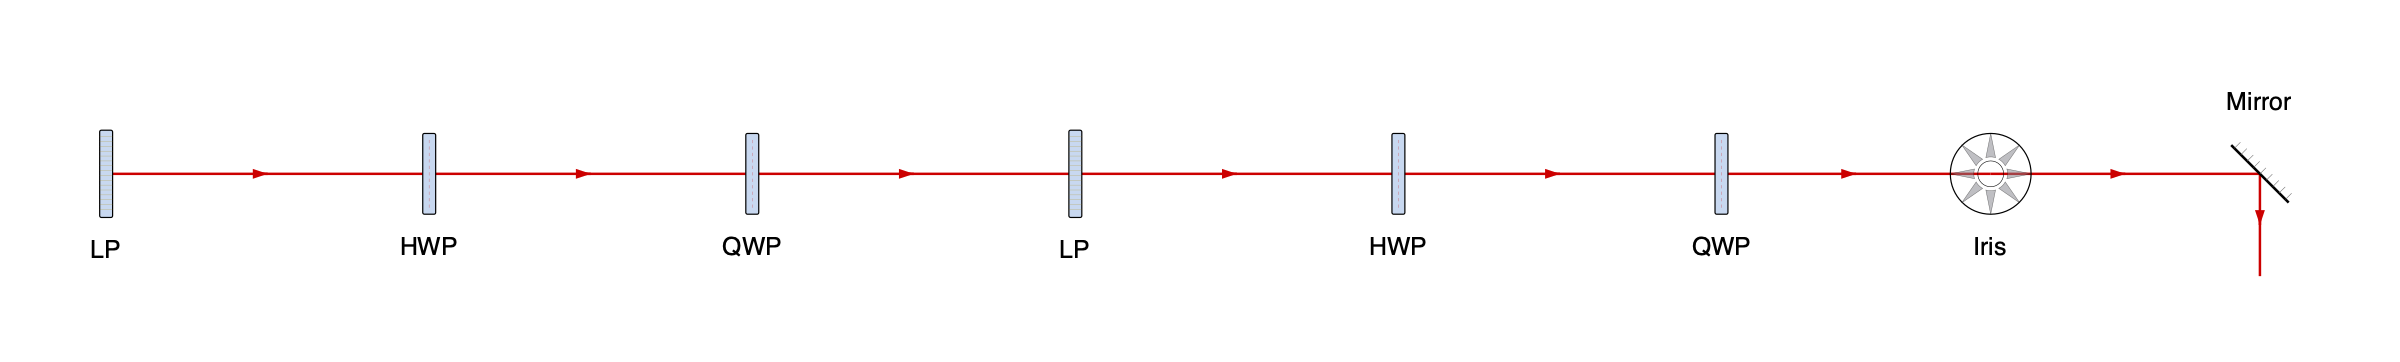
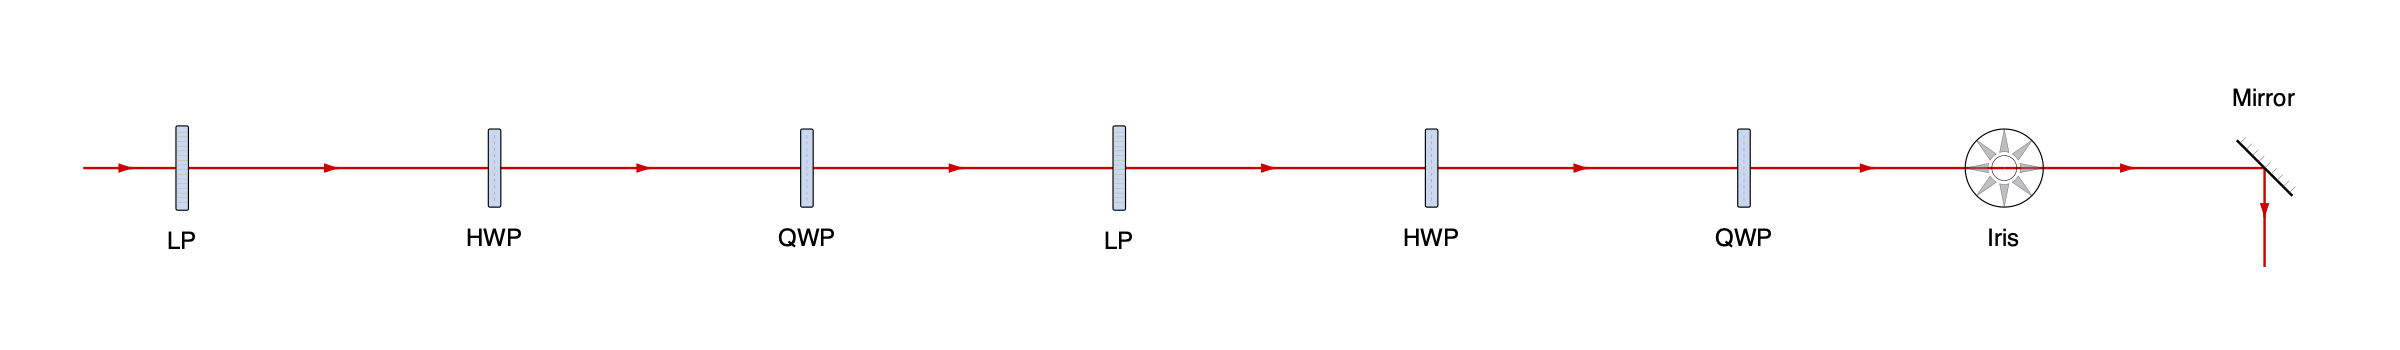
Draw implicit incoming beam stubs at free-space roots

diff --git a/tests/test_layout.py b/tests/test_layout.py
@@ -5,10 +5,108 @@ from uuid import uuid4
 import pytest
 
 from beampath import (
-    Artwork, ComponentDefinition, Geometry, HWP, LP, LayoutError, Port, QWP,
-    Setup, Style, beam, beamsplitter, component, iris, mirror, register_component,
+    Artwork, ComponentDefinition, ComponentSpec, Geometry, HWP, LP, LayoutError,
+    Port, QWP, Setup, Style, beam, beamsplitter, component, fiber_launch, iris,
+    mirror, register_component,
 )
 from beampath.examples import cage_system, mzi
+from beampath.layout import segment_intersects
+
+
+@pytest.mark.parametrize("direction", [0, 90, 180, 270, 31.7])
+def test_input_stub_follows_heading_and_preserves_graph(direction):
+    path = beam(direction, origin=(120, -60)) >> mirror(turn="left") >> iris()
+    before = path.setup.optics, path.setup.connections
+    result = path.layout()
+    lead, = [s for s in result.segments if s.source is None]
+    first = result.placements["optic-001"]
+    assert first.position == (120, -60)
+    assert lead.output is None and lead.target == first.id and lead.input == "in"
+    assert lead.end == pytest.approx(first.port_position("in"))
+    assert lead.length == pytest.approx(result.style.open_length)
+    assert tuple(lead.end[i] - lead.start[i] for i in (0, 1)) == pytest.approx((
+        95 * math.cos(math.radians(direction)), 95 * math.sin(math.radians(direction))))
+    assert (path.setup.optics, path.setup.connections) == before
+    assert len(result.placements) == 2 and len(path.setup.connections) == 1
+    assert all(not segment_intersects(lead.start, lead.end, label.bounds)
+               for label in result.labels)
+    x0, y0, x1, y1 = result.bounds
+    for x, y in (lead.start, lead.end):
+        assert x0 + result.style.margin <= x <= x1 - result.style.margin
+        assert y0 + result.style.margin <= y <= y1 - result.style.margin
+
+
+def test_shorthand_chain_draws_the_same_input_stub_as_explicit_beam():
+    shorthand = (iris() >> HWP()).layout()
+    explicit = (beam() >> iris() >> HWP()).layout()
+    assert shorthand == explicit
+    assert len([s for s in shorthand.segments if s.source is None]) == 1
+
+
+def test_input_stub_uses_displaced_port_and_extends_for_artwork():
+    spec = ComponentSpec(ComponentDefinition(
+        "wide", "", Artwork((0, 0), (-150, -20, 40, 20),
+                            svg='<svg xmlns="http://www.w3.org/2000/svg"/>'),
+        lambda p: Geometry((Port("in", "input", position=(-20, 5)),
+                            Port("out", "output", position=(10, 5))))))
+    path = beam(origin=(100, -70)).append(spec, at=(500, 60))
+    result = path.layout(style=Style(open_length=30, clearance=20))
+    lead, = [s for s in result.segments if s.source is None]
+    assert result.placements[path.end.id].position == (500, 60)
+    assert lead.end == pytest.approx((480, 65))
+    assert lead.start == pytest.approx((330, 65))
+    assert lead.length == pytest.approx(150)
+
+
+@pytest.mark.parametrize("direction", [0, 90, 180, 270, 31.7])
+@pytest.mark.parametrize("role", ["launch", "couple"])
+def test_fiber_launch_has_no_input_stub_but_coupler_does(direction, role):
+    path = beam(direction) >> fiber_launch(role=role)
+    result = path.layout()
+    leads = [s for s in result.segments if s.source is None]
+    if role == "launch":
+        assert leads == []
+        outgoing, = result.segments
+        assert outgoing.source == path.end.id and outgoing.target is None
+    else:
+        lead, = result.segments
+        assert leads == [lead]
+        assert lead.target == path.end.id and lead.input == "in"
+        assert tuple((lead.end[i] - lead.start[i]) / lead.length
+                     for i in (0, 1)) == pytest.approx((
+                         math.cos(math.radians(direction)), math.sin(math.radians(direction))))
+
+
+@pytest.mark.parametrize("ports,default_input", [
+    ((Port("out", "output"),), None),
+    ((Port("in", "input", draw_lead_in=False), Port("out", "output")), "in"),
+])
+def test_custom_sources_can_omit_input_stub(ports, default_input):
+    spec = ComponentSpec(ComponentDefinition(
+        "source", "", Artwork((0, 0), (-5, -5, 5, 5),
+                              svg='<svg xmlns="http://www.w3.org/2000/svg"/>'),
+        lambda p: Geometry(ports), default_input=default_input))
+    result = (beam() >> spec).layout()
+    outgoing, = result.segments
+    assert outgoing.source == "optic-001" and outgoing.target is None
+
+
+def test_splitter_only_draws_input_stubs_for_bound_roots():
+    result = (beam() >> beamsplitter(angle=-45)).layout()
+    lead, = [s for s in result.segments if s.source is None]
+    assert lead.input == "primary"
+
+
+def test_input_stub_crossing_unrelated_optic_fails():
+    blocker = ComponentSpec(ComponentDefinition(
+        "blocker", "", Artwork((0, 0), (-5, -5, 5, 5),
+                               svg='<svg xmlns="http://www.w3.org/2000/svg"/>'),
+        lambda p: Geometry((Port("in", "input", draw_lead_in=False),))))
+    drawing = Setup()
+    drawing.beam() >> iris(label="")
+    drawing.beam(origin=(-70, 0)) >> blocker
+    with pytest.raises(LayoutError, match="lead-in-.*beam crosses unrelated optic optic-002"):
+        drawing.layout()
 
 
 def test_cage_layout_and_labels():
@@ -28,7 +126,7 @@ def test_unequal_mzi_closes_shared_optic_by_stretching():
     p = mzi()
     result = p.layout()
     combined = next(o for o in result.placements.values() if o.instance.spec.label == "BS2")
-    incident = [s for s in result.segments if s.target == combined.id]
+    incident = [s for s in result.segments if s.source is not None and s.target == combined.id]
     assert sorted(s.length for s in incident) == pytest.approx([380, 570])
     assert all(s.end == pytest.approx(combined.position) for s in incident)
     assert combined.position == pytest.approx((570, 570))
@@ -138,7 +236,8 @@ def test_crossing_beams_do_not_connect():
     drawing.beam("south", origin=(-100, -150)) >> HWP() >> LP()
     result = drawing.layout(style=Style(pitch=300))
     assert len(drawing.connections) == 2
-    assert len([s for s in result.segments if s.target]) == 2
+    assert len([s for s in result.segments
+                if s.source is not None and s.target is not None]) == 2
 
 
 def test_style_scales_spacing_and_clearance():

diff --git a/tests/test_render.py b/tests/test_render.py
@@ -14,6 +14,30 @@ from beampath.layout import artwork_point
 from beampath.render import artwork_bytes, render_svg, tag
 
 
+def test_incoming_stub_renders_with_arrow_and_open_source_metadata():
+    path = beam("east") >> mirror(heading="north") >> mirror(turn="right") >> iris()
+    layout = path.layout()
+    lead, = [s for s in layout.segments if s.source is None]
+    root = ET.fromstring(path.to_svg())
+    beams = root.find(f"{tag('g')}[@id='optical-path']")
+    line = beams.find(f"{tag('line')}[@id='{lead.id}']")
+    assert (float(line.get("x1")), float(line.get("y1"))) == (-95, 0)
+    assert (float(line.get("x2")), float(line.get("y2"))) == (0, 0)
+    assert line.get("data-source") == line.get("data-output") == ""
+    assert line.get("data-target") == "optic-001" and line.get("data-input") == "in"
+    arrow = beams.find(f"{tag('line')}[@id='{lead.id}-arrow']")
+    assert arrow.get("marker-end") == "url(#beam-arrow)"
+    assert float(arrow.get("x2")) > float(arrow.get("x1"))
+    assert float(arrow.get("y1")) == float(arrow.get("y2")) == 0
+    assert len(beams.findall(tag("line"))) == 2 * len(layout.segments)
+    manifest = json.loads(root.find(
+        f"{tag('metadata')}/{tag('metadata')}[@id='asset-attribution-manifest']").text)
+    incoming, = [s for s in manifest["segments"] if s["source"] is None]
+    assert incoming["output"] is None
+    assert incoming["target"] == "optic-001" and incoming["input"] == "in"
+    assert len(manifest["optics"]) == 3
+
+
 def test_each_physical_optic_and_beam_segment_render_once():
     p = mzi()
     layout = p.layout()

diff --git a/src/beampath/layout.py b/src/beampath/layout.py
@@ -79,11 +79,13 @@ class PlacedOptic:
 
 @dataclass(frozen=True)
 class Segment:
+    """A beam segment; open ends have no source/output or target/input."""
+
     id: str
     start: Point
     end: Point
-    source: str
-    output: str
+    source: str | None
+    output: str | None
     target: str | None = None
     input: str | None = None
 
@@ -279,6 +281,19 @@ def layout(setup: Setup, *, style: Style | None = None) -> Layout:
                 length = max(style.open_length, reach + style.clearance)
                 b = a[0] + length * d[0], a[1] + length * d[1]
                 segments.append(Segment(f"stub-{placed.id}-{index:02d}", a, b, placed.id, port.name))
+    for index, root in enumerate(setup._roots):
+        if root.input is None:
+            continue
+        placed = placements[root.optic]
+        if not placed.instance.port(root.input, "input").draw_lead_in:
+            continue
+        b = placed.port_position(root.input)
+        d = unit(placed.port_direction(root.input))
+        reach = -_project(placed.bounds, b, d)[0]
+        length = max(style.open_length, reach + style.clearance)
+        a = b[0] - length * d[0], b[1] - length * d[1]
+        segments.append(Segment(f"lead-in-{placed.id}-{index:02d}", a, b,
+                                None, None, placed.id, root.input))
     for segment in segments:
         for placed in placements.values():
             if placed.id not in {segment.source, segment.target} and segment_intersects(

diff --git a/tests/test_graph.py b/tests/test_graph.py
@@ -109,7 +109,8 @@ def test_heading_mirrors_on_splitter_branches_and_join():
     b = split.reflect() >> mirror(heading="east")
     combined = a.join(b, beamsplitter(angle=45))
     assert combined.end.instance.heading == 90
-    assert len([segment for segment in split.layout().segments if segment.target]) == 5
+    assert len([segment for segment in split.layout().segments
+                if segment.source is not None and segment.target is not None]) == 5
 
 
 @pytest.mark.parametrize("initial,target", [
@@ -214,7 +215,15 @@ def test_two_nominal_inputs_can_start_at_one_splitter():
     drawing.beam("east").connect(shared.input("primary"))
     drawing.beam("south").connect(shared.input("secondary"))
     assert shared.instance.heading == 0
-    assert drawing.layout().placements[shared.id].position == (200, 300)
+    result = drawing.layout()
+    assert result.placements[shared.id].position == (200, 300)
+    leads = [s for s in result.segments if s.source is None]
+    assert len(leads) == 2
+    assert len({s.id for s in leads}) == 2
+    assert all(s.target == shared.id and s.end == (200, 300) for s in leads)
+    assert {s.input: s.start for s in leads} == {
+        "primary": (105, 300), "secondary": (200, 205)}
+    assert drawing.connections == ()
 
 
 def test_failed_chain_is_atomic():

diff --git a/src/beampath/definitions.py b/src/beampath/definitions.py
@@ -18,6 +18,7 @@ class Port:
     Input headings point INTO the component, output headings point OUT.
     Positions are in diagram units relative to its placement origin.
     An absolute output direction uses the drawing's compass frame instead.
+    draw_lead_in controls the incoming stub when an input starts a beam.
     """
 
     name: str
@@ -26,6 +27,7 @@ class Port:
     position: Point = (0, 0)
     required: bool = True
     absolute: bool = False
+    draw_lead_in: bool = True
 
     def __post_init__(self):
         if not isinstance(self.name, str) or not self.name:
@@ -34,6 +36,8 @@ class Port:
             raise ComponentError(f"Invalid port kind {self.kind!r}")
         if self.absolute and self.kind != "output":
             raise ComponentError("Only output ports can have absolute headings")
+        if not isinstance(self.draw_lead_in, bool):
+            raise ComponentError("draw_lead_in must be a boolean")
         object.__setattr__(self, "direction", finite(self.direction, "port direction") % 360)
         object.__setattr__(self, "position", point(self.position, "port position"))
 

diff --git a/src/beampath/render.py b/src/beampath/render.py
@@ -147,7 +147,7 @@ def render_svg(layout: Layout) -> str:
         element(beams, "line", id=segment.id,
                 x1=number(segment.start[0]), y1=number(segment.start[1]),
                 x2=number(segment.end[0]), y2=number(segment.end[1]),
-                data_source=segment.source, data_output=segment.output,
+                data_source=segment.source or "", data_output=segment.output or "",
                 data_target=segment.target or "", data_input=segment.input or "")
         dx = (segment.end[0] - segment.start[0]) / segment.length
         dy = (segment.end[1] - segment.start[1]) / segment.length

diff --git a/src/beampath/components.py b/src/beampath/components.py
@@ -57,7 +57,7 @@ def _fiber(parameters):
     role = parameters.get("role", "launch")
     if role not in {"launch", "couple"}:
         raise ComponentError("fiber_launch role must be 'launch' or 'couple'")
-    ports = (Port("in", "input"),)
+    ports = (Port("in", "input", draw_lead_in=role == "couple"),)
     if role == "launch":
         ports += (Port("out", "output"),)
     return Geometry(ports, reflected=role == "launch")

diff --git a/src/beampath/model.py b/src/beampath/model.py
@@ -369,5 +369,8 @@ class Path:
 
 
 def beam(direction: str | float = "east", *, origin: Point = (0, 0)) -> Path:
-    """Start a new setup without drawing an initial source or lead-in gap."""
+    """Start a setup with an incoming stub at its first free-space input.
+
+    origin locates the first optic, not the open end of the incoming beam.
+    """
     return Setup().beam(direction, origin=origin)

diff --git a/README.md b/README.md
@@ -59,8 +59,11 @@ Runnable example: [cage.py](examples/cage.py).
 
 Chains start building to the east. Use `beam("west") >> fiber_launch(...)` for another direction,
 or `beam(30)` for a numeric heading. Angles are degrees, clockwise positive:
-east is 0, south 90, west 180, and north 270. The initial beam draws no source
-or leading gap. For a single component, write `beam() >> iris()`.
+east is 0, south 90, west 180, and north 270. An incoming beam stub is drawn
+automatically when the first component has a free-space input, including in
+shorthand chains such as `iris() >> HWP()`. A fiber launch starts at its output,
+with no incoming free-space stub on its fiber side. A fiber coupler used first
+receives an incoming stub. For a single component, write `beam() >> iris()`.
 
 Mirror and beamsplitter `angle` arguments describe the surface normal relative
 to the incoming beam: `mirror(angle=-45)` turns east to south. A mirror accepts
@@ -157,7 +160,9 @@ Failed appends, connects, and joins leave the graph and cursors intact.
 The graph fixes beam headings; Kiwi solves positions and gap lengths.
 Automatic gaps are at least 190 diagram units, or the artwork clearance if
 larger. They stretch to close joins, with equal gaps preferred along straight
-runs. Beam crossings do not create connections. Open outputs get short stubs.
+runs. Beam crossings do not create connections. Initial free-space inputs and
+open outputs get short stubs, controlled by `Style.open_length` (95 diagram
+units by default) and extended as needed for artwork clearance.
 
 ```python
 polarization = chain(LP(), HWP(), QWP())
@@ -175,7 +180,8 @@ Runnable example: [reuse.py](examples/reuse.py).
 it may be below the default pitch if artwork still clears. `at` fixes an
 optic's reference point. Both hints are required constraints, and incompatible
 hints raise `LayoutError`. For a chain, hints apply to its first component.
-The first component's `at` overrides the initial beam origin. Named port
+The initial beam origin locates the first optic, rather than its incoming
+stub's open end. The first component's `at` overrides that origin. Named port
 positions may differ from the optic's reference point.
 
 `Setup.add(spec, at=...)` and `path.connect(input_ref, distance=...)` accept
@@ -202,6 +208,10 @@ Runnable example: [rendering.py](examples/rendering.py).
 `Layout` is an immutable snapshot with `placements`, `segments`, `labels`, and
 canvas `bounds`.
 Editing the setup afterward does not change the snapshot.
+Incoming stubs have `source=None` and `output=None`, with the actual `target`
+and `input`; outgoing stubs have `target=None` and `input=None`. Segments with
+both endpoints describe component-to-component connections. Stubs add no optics
+or connections to the setup graph.
 SVG export has no raster dependency. PNG export retains credits in a PNG text
 chunk and embeds the requested resolution. The optional CairoSVG converter
 requires native Cairo. On macOS with Homebrew, if the loader cannot find it,
@@ -270,7 +280,10 @@ geometry is available as `optic_ref.instance.geometry`; specifications stay
 reusable even when their artwork depends on incidence.
 Set `default_input` on the definition when its input is named differently;
 mark optional inputs with `required=False`. Source definitions without inputs
-use `default_input=None`. Bounds should conservatively contain retained artwork,
+use `default_input=None` and receive no incoming stub. Inputs draw a lead-in
+when they start a beam; set `Port.draw_lead_in=False` for inputs such as a
+source's fiber input where an incoming free-space beam should not be drawn.
+Bounds should conservatively contain retained artwork,
 including strokes and intrinsic text. A selector may remove captions or demo
 elements from source SVGs. SVG IDs and local references are namespaced per
 instance. Supply intrinsic text as ordinary positioned SVG text; placement
